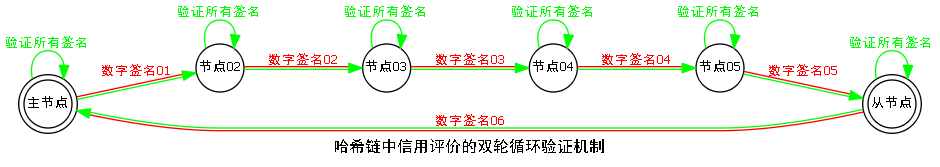
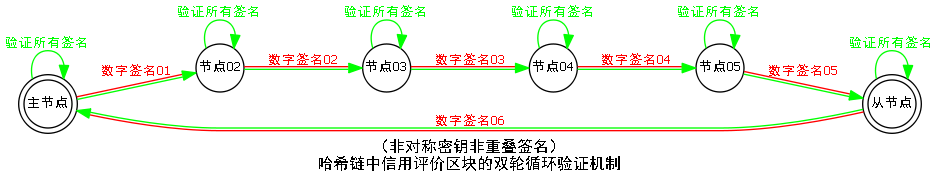
none

Changed region(s): [[0.0, 0.0299, 1.0, 0.9281]]

diff --git a/_zh/Timeline/The_Natural/Social_Credit_Evaluation_System.md b/_zh/Timeline/The_Natural/Social_Credit_Evaluation_System.md
@@ -2,7 +2,7 @@
 layout:    zh_post
 Topic:     顺其自然
 Title:     社会信用评价系统
-Revised:   2019-03-22 18:00:00 +08 @ 中国-广东-湛江 +08
+Revised:   2019-03-24 11:38:00 +08 @ 中国-广东-湛江 +08
 Authors:   璀璨星辰
 Resources:
 ---
@@ -150,14 +150,19 @@ Resources:
 
 **写得很乱，我想先写个大概，多次迭代修改。***
 
-![max-width:480px;](figures/Axiomatic_Human_Society/Bicyclic_Digital_Signature.png)
+网络中与哈希链存储相关的节点至少可分为3种类型，即服务器节点/手机客户端/智能身份证，其中服务器节点存储着完整的哈希链，手机客户端至少存储着哈希链的头部区块，智能身份证至少存储着哈希链的头部区块中的实时信用。服务器节点之间必定通过网络进行互相通信，而且服务器节点可以随时加入与退出。手机客户端有可能暂时出现没有网络连接的情况，智能身份证在大多数情况下可以没有网络连接。网络中的每个服务器节点存储着不定数量的实体的哈希链，每个实体的哈希链至少存储在6个服务器节点上。网络中的每个服务器是对等的，不存在统一协调的中心服务器。随着实体接入网络的次数增多，每个实体的哈希链将存储在远远超过6个服务器节点上，哈希链存储在越多的服务器节点上，就越能抵抗黑客攻击。也就是说广义的哈希链就是一个完全分布式的数据库，这个数据库由网络中所有服务器节点组成，并通过冗余数据存储的方式来保证平稳运行。没有统一的中心服务器也就没有协调统一的时间，每个对等的服务器按照自己的时间为哈希链中的区块加盖时间戳。因此时间戳里的时间并不是特别精确的时间，这个时间主要用于校验同一实体的哈希链中前后区块的次序。
 
-网络中与哈希链存储相关的节点至少可分为3种类型，即服务器/手机客户端/智能身份证，其中服务器存储着完整的哈希链，手机客户端至少存储着哈希链的头部区块，智能身份证至少存储着哈希链的头部区块中的实时信用。网络中的每个服务器节点存储着不定数量的实体的哈希链，每个实体的哈希链至少存储在6个服务器节点上。网络中的每个服务器是对等的，不存在统一协调的中心服务器。随着实体接入网络的次数增多，每个实体的哈希链将存储在远远超过6个服务器节点上，哈希链存储在越多的服务器节点上，就越能抵抗黑客攻击。也就是说广义的哈希链就是一个完全分布式的数据库，这个数据库由网络中所有服务器节点组成，并通过冗余数据存储的方式来保证平稳运行。没有统一的中心服务器也就没有协调统一的时间，每个对等的服务器按照自己的时间为哈希链中的区块加盖时间戳。因此时间戳里的时间并不是特别精确的时间，这个时间主要用于校验同一实体的哈希链中前后区块的次序。
+![max-width:480px;](figures/Axiomatic_Human_Society/Bicyclic_Verification_for_Credit_Evaluation.png)
 
-考虑在实体ID2对实体ID1的信用评价，假设主节点上存储有实体ID1的哈希链，实体ID1接收到实体ID2的信用评价后，最终将在实体ID1的哈希链中添加信用评价区块。由主节点生成信用评价，在单个评分ID中填入ID2，在评分分数中填入ID2对ID1的评分分数，在评分解释中填入ID2对ID1的评分解释，并以主节点上的生成时间加盖时间戳。主节点将哈希链的头部区块附加在信用评价上，再用自己的私钥对这份信用评价进行数字签名，接着将这份信用评价发往从节点。这份信用评价必须先后随机历经至少4个不同的服务器节点，这些服务器节点必须满足的条件是存储有ID1的哈希链。每个服务器节点将检查信用评价上的时间戳与本服务器上的时间是否矛盾，并校验哈希链的头部区块是否一致。再用自己的私钥对这份信用评价单独进行数字签名，每次数字签名都可以采用不同的非对称密钥算法，并将所采用非对称密钥算法附加在数字签名上。从节点在对信用评价进行数字签名后，便将信用评价发回主节点。主节点根据信用评价上数字签名附加的非对称密钥算法，验证所有6个服务器的数字签名。如果6个数字签名全都验证成功，就意味着该信用评价被包括主节点在内的6个服务器成功接收，主节点就可以将该信用评价区块加入到ID1的哈希链中，其余服务器节点成功验证所有6个数字签名后，也将该信用评价区块加入到ID1的哈希链中。当从节点验证完所有数字签名后，就意味着信用评价被成功添加到6个服务器中ID1的哈希链上。此时这6个服务器节点相对于网络中其余存储有ID1哈希链的服务器节点，从某种程度上来说就是权威节点，这6个权威节点向网络广播这份信用评价，其余存储有ID1哈希链的服务器节点将这份信用评价添加入ID1哈希链中，从而完成全网ID1哈希链的更新。
+考虑通过服务器节点，在实体ID2对实体ID1的信用评价，假设主节点上存储有实体ID1的哈希链，实体ID1接收到实体ID2的信用评价后，最终将在实体ID1的哈希链中添加信用评价区块。由主节点生成信用评价区块，在单个评分ID中填入ID2，在评分分数中填入ID2对ID1的评分分数，在评分解释中填入ID2对ID1的评分解释，并以主节点上的时间加盖时间戳。主节点将哈希链的头部区块附加在信用评价区块上，再用自己的私钥对这份信用评价进行数字签名，接着将这份信用评价区块发往从节点。这份信用评价区块必须先后随机遍历至少4个不同的服务器节点，这些服务器节点必须满足的条件是存储有ID1哈希链。每个服务器节点将检查信用评价区块上的时间戳与本服务器上的时间是否矛盾，并校验哈希链的头部区块是否一致。再用自己的私钥对这份信用评价单独进行数字签名，每次数字签名都可以采用不同的非对称密钥算法，并将所采用非对称密钥算法附加在数字签名上。从节点在对信用评价进行数字签名后，便将信用评价发回主节点。主节点根据信用评价区块上数字签名附加的非对称密钥算法，验证所有6个服务器的数字签名。如果6个数字签名全都验证成功，就意味着该信用评价区块被包括主节点在内的6个服务器成功接收，主节点就可以将该信用评价区块加入到ID1的哈希链中，其余服务器节点成功验证所有6个数字签名后，也将该信用评价区块加入到ID1的哈希链中。当从节点验证完所有数字签名后，就意味着信用评价区块被成功添加到6个服务器中ID1的哈希链上。此时这6个服务器节点相对于网络中其余存储有ID1哈希链的服务器节点，从某种程度上来说就是权威节点，这6个权威节点向网络广播这份信用评价区块，其余存储有ID1哈希链的服务器节点将这份信用评价添加入ID1哈希链中，从而完成全网的ID1哈希链的更新。
 
-考虑在实体ID1/实体ID2/实体ID3之间签订的社会契约，
+![max-width:480px;](figures/Axiomatic_Human_Society/Bicyclic_Verification_for_Social_Contact.png)
 
+考虑通过服务器节点，在实体ID1/实体ID2/实体ID3之间签订的社会契约，假设ID1主节点上存储有ID1哈希链，ID2主节点上存储有ID2哈希链，ID3主节点上存储有ID3哈希链。实体ID1/实体ID2/实体ID3共同签订的社会契约，最终将在ID1哈希链/ID2哈希链/ID3哈希链中添加社会契约区块。由ID1主节点生成社会契约区块，在多个契约ID数据项中填入ID1/ID2/ID3，在多个实时信用数据项中填入ID1/ID2/ID3的实时信用，在契约内容中填入ID1/ID2/ID3签订的社会契约文本，并以ID1主节点上的时间加盖时间戳。ID1主节点将ID1哈希链头部区块附加在信用评价区块上，在用自己的私钥对这份社会契约区块进行数字签名，但须实体ID1亲手确认无误，接着将这份社会契约区块发往ID1从节点。这份社会契约区块必须先后随机遍历至少4个不同的存储有ID1哈希链的服务器节点，每个ID1服务器节点会检验这份社会契约区块的时间戳与本服务器上的时间是否矛盾，并校验ID1哈希链的头部区块是否一致，再用自己的私钥对这份社会契约单独进行数字签名。ID2主节点接收到来自ID1从节点的这份社会契约区块后，又将ID2哈希链头部区块附加在信用评价区块上，再用自己的私钥对这份社会契约区块进行数字签名，但须实体ID2亲手确认无误，接着将这份社会契约区块发往ID2从节点。这份社会契约区块必须先后随机遍历至少4个不同的存储有ID2哈希链的服务器节点，每个ID2服务器节点会检验这份社会契约区块的时间戳与本服务器上的时间是否矛盾，并检验ID2哈希链的头部区块是否一致，再用自己的私钥对这份社会契约单独进行数字签名。同理，ID3主节点接受到来自ID2从节点的这份社会契约区块后，将遵循同样的流程。当ID3从节点完成最后一次数字签名后，便将这份社会契约区块发回ID1主节点。ID1主节点将验证所有6×3=18个数字签名，如果所有数字签名验证成功，就意味着这份社会契约区块成功被6个不同的ID1服务器/6个不同的ID2服务器/6个不同的ID3服务器成功接收，ID1主节点便将这份社会契约区块添加到ID1哈希链上。同理，其余服务器节点再成功验证所有数字签名后，便将这份社会契约区块添加到本服务器的哈希链上。然后这6个不同ID1/ID2/ID3服务器节点，就是ID1/ID2/ID3哈希链的权威结点。由这些权威服务器节点向全网进行广播，使得存储有ID1/ID2/ID3哈希链的服务器节点，将这份社会契约区块添加到ID1/ID2/ID3哈希链上，从而完成全网的ID1/ID2/ID3哈希链的更新。
+
+考虑手机客户端与主节点的数据同步，假设存储有ID1哈希链头部区块的手机客户端成功连接到被称为主节点的服务器节点，但发现主节点上没有存储着ID1哈希链。主节点向全网的服务器节点查询ID1哈希链，全网所有的ID1服务器节点都将返回ID1哈希链的头部区块。假设所有返回的ID1哈希链头部区块中，有占多数的头部区块是相同的，但也有占少数的头部区块是不同的，如果占多数的头部区块与占少数的头部区块的比例达到6:1以上，那么就认为占多数的头部区块是可信的，而认为占少数的头部区块是不可信的。主节点将下载占多数的头部区块的ID1哈希链，从而完成主节点对ID1哈希链的数据同步。主节点将丢弃占少数的区块，同时向社会信用评价系统的管理员报告问题。当手机客户端与主节点有网络连接时，手机客户端将信用评价与社会契约等等数据全部发送给主节点，由主节点完成哈希链的存储，手机客户端仅在查询时保留一部分缓存数据。
+
+考虑手机客户端切断网络连接时的数据存储。
 
 
 ### 社会信用评价系统
